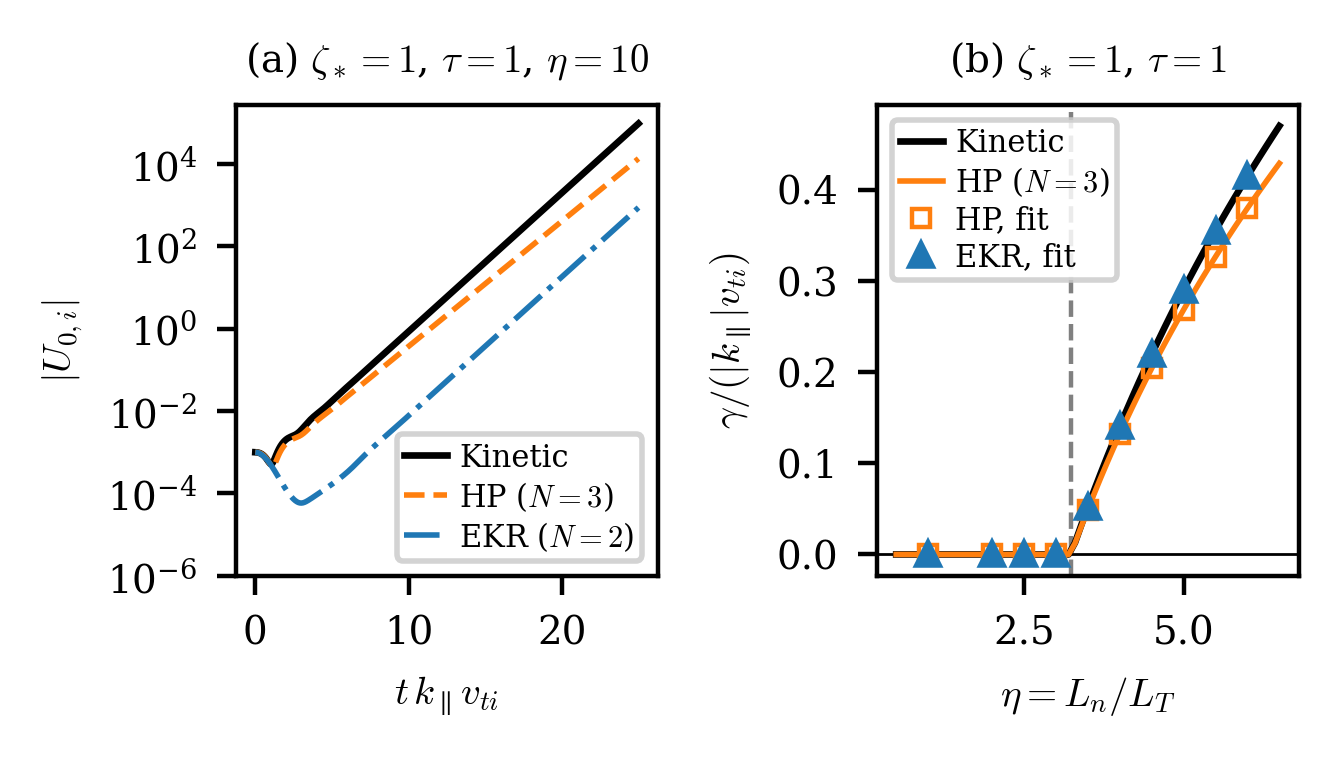
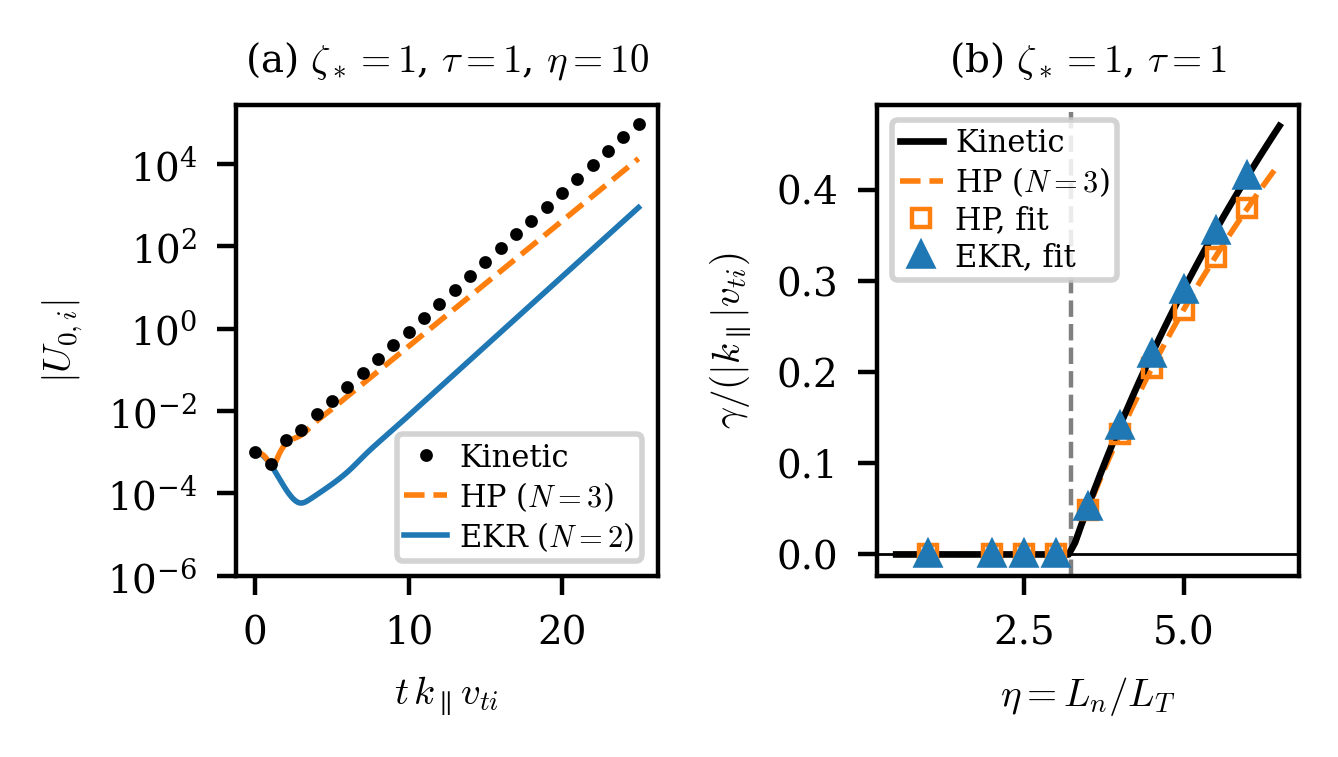
Unify kinetic/HP/EKR styling across the three paper figures.
Kinetic ground truth is now markers-only and drawn above every closure
curve, so an overlaying closure no longer hides it -- previously the EKR
curve covered the kinetic trace in fig_kappa_bot(a) and the NN (N=4)
curve was obscured by a thick kinetic line in the two-mode figure.

Closure styling is now consistent everywhere: HP is orange dashed and
plotted above EKR, EKR is blue solid.  This corrects a color inversion
in the two-mode figure, where HP was blue and EKR orange -- the reverse
of the other two figures.

The same swap is applied to _plot_landau_singlemode_case for consistency
(that figure is currently commented out of the manuscript).

Figures regenerated; growth-rate diagnostics unchanged (kappa-scan EKR
+0.0016%, ITG HP -9.7% / EKR +2.7e-5).

diff --git a/bot/figures_u2.py b/bot/figures_u2.py
@@ -1258,9 +1258,10 @@ def _plot_landau_twomode_case(ax, u_b, k, eps, title, model_n4_super, a_hp,
           f"omega1={omega1:.3f} (xi_b1={xi_b1:.3f}), "
           f"omega2={omega2:.3f} (xi_b2={xi_b2:.3f})")
 
-    ax.semilogy(t_grid, np.abs(E_ref), "k-", lw=2.5, zorder=8,
+    ax.semilogy(t_grid, np.abs(E_ref), "ko", ms=3.0,
+                markevery=20, zorder=8,
                 label="Kinetic ground truth")
-    ax.semilogy(t_grid, np.abs(E_pade), color="C0", lw=1.2, ls=":", zorder=2,
+    ax.semilogy(t_grid, np.abs(E_pade), color="C1", lw=1.2, ls="--", zorder=4.5,
                 alpha=0.9, label=r"Hammett-Perkins ($N=3$)")
     ax.semilogy(t_grid, np.abs(E_hun4), color="C4", lw=1.2, ls=":", zorder=3,
                 alpha=0.9, label=r"Hunana ($N=4$)")
@@ -1268,7 +1269,7 @@ def _plot_landau_twomode_case(ax, u_b, k, eps, title, model_n4_super, a_hp,
                 alpha=0.9, label=r"Padé opt ($N=3$)")
     ax.semilogy(t_grid, np.abs(E_opt4), color="C5", lw=1.2, ls="-.", zorder=3,
                 alpha=0.9, label=r"Padé opt ($N=4$)")
-    ax.semilogy(t_grid, np.abs(E_dir2), color="C1", lw=1.5, ls="--", zorder=4,
+    ax.semilogy(t_grid, np.abs(E_dir2), color="C0", lw=1.5, ls="-", zorder=4,
                 label=r"EKR ($N=2$)")
     ax.semilogy(t_grid, np.abs(E_nn3), color="C3", lw=1.2, ls="-", zorder=4,
                 alpha=0.9, label=r"NN ($N=3$)")
@@ -1383,11 +1384,11 @@ def _plot_landau_singlemode_case(ax, u_b, k, eps, title, model_n4_super, a_hp,
 
     ax.semilogy(t_grid, np.abs(E_ref), "k-", lw=2.5, zorder=6,
                 label="Kinetic ground truth")
-    ax.semilogy(t_grid, np.abs(E_dir2), color="C1", lw=1.5, ls="--", zorder=4,
+    ax.semilogy(t_grid, np.abs(E_dir2), color="C0", lw=1.5, ls="-", zorder=4,
                 label=r"EKR ($N=2$)")
     ax.semilogy(t_grid, np.abs(E_nn4s), color="C6", lw=2.0, ls="-", zorder=5,
                 label=r"NN ($N=4$)")
-    ax.semilogy(t_grid, np.abs(E_pade), color="C0", lw=1.0, ls=":", zorder=2,
+    ax.semilogy(t_grid, np.abs(E_pade), color="C1", lw=1.0, ls="--", zorder=4.5,
                 alpha=0.8, label=r"Hammett-Perkins ($N=3$)")
 
     finite_traces = [np.abs(E_ref), np.abs(E_dir2), np.abs(E_nn4s), np.abs(E_pade)]

diff --git a/bot/figs/fig_slab_itg_combined.py b/bot/figs/fig_slab_itg_combined.py
@@ -31,10 +31,12 @@ ZETA_STAR, TAU = 1.0, 1.0
 RC = {"font.family": "serif", "mathtext.fontset": "cm",
       "font.size": 7, "axes.titlesize": 7}
 
-STYLES = [("kin", dict(color="k", ls="-", lw=1.2), "Kinetic"),
-          ("hp", dict(color="C1", ls="--", lw=1.0),
+STYLES = [("kin", dict(color="k", ls="none", marker="o", ms=1.3,
+                       markevery=20, zorder=10), "Kinetic"),
+          ("hp", dict(color="C1", ls="--", lw=1.0, zorder=5),
            r"HP ($N{=}3$)"),
-          ("beta", dict(color="C0", ls="-.", lw=1.0), r"EKR ($N{=}2$)")]
+          ("beta", dict(color="C0", ls="-", lw=1.0, zorder=4),
+           r"EKR ($N{=}2$)")]
 
 
 def main() -> None:
@@ -74,14 +76,14 @@ def main() -> None:
 
         ax.axhline(0, color="k", lw=0.5)
         ax.axvline(eta_th, color="gray", lw=0.8, ls="--")
-        ax.plot(eta_c, gr(s["z_kin"]), "k-", lw=1.2,
+        ax.plot(eta_c, gr(s["z_kin"]), "k-", lw=1.2, zorder=4,
                 label="Kinetic")
-        ax.plot(eta_c, gr(s["z_hp"]), "C1-", lw=1.0,
+        ax.plot(eta_c, gr(s["z_hp"]), "C1--", lw=1.0, zorder=3,
                 label=r"HP ($N{=}3$)")
         ax.plot(eta_f, np.maximum(s["fit_hp"].imag, 0), "C1s", ms=3.2, mew=0.8,
-                mfc="none", label=r"HP, fit")
+                mfc="none", zorder=5, label=r"HP, fit")
         ax.plot(eta_f, np.maximum(s["fit_beta"].imag, 0), "C0^", ms=4,
-                label=r"EKR, fit")
+                zorder=5, label=r"EKR, fit")
         ax.set_title(rf"(b) $\zeta_* = {ZETA_STAR:g}$, $\tau = {TAU:g}$")
         ax.set_xlabel(r"$\eta = L_n/L_T$")
         ax.set_ylabel(r"$\gamma / (|k_\parallel| v_{ti})$")

diff --git a/bot/figs/fig_kappa_bot.py b/bot/figs/fig_kappa_bot.py
@@ -81,11 +81,12 @@ def main() -> None:
         y0_ekr = np.array([0.0, AMP, 0.0, 0.0], dtype=complex)
         E_ekr2 = ekr_evolve_kappa(K, U_B, EPS, KAPPA_TRACE, t, y0_ekr)
 
-        ax.semilogy(t, np.abs(E_kin), "k-", lw=1.2,
-                    label="Kinetic")
-        ax.semilogy(t, np.abs(E_hp), "C1--", lw=1.0,
+        ax.semilogy(t, np.abs(E_kin), "ko", ms=1.3, markevery=44,
+                    zorder=10, label="Kinetic")
+        ax.semilogy(t, np.abs(E_hp), "C1--", lw=1.0, zorder=5,
                     label=r"HP ($N{=}3$)")
-        ax.semilogy(t, np.abs(E_ekr2), "C0-.", lw=1.0, label=r"EKR ($N{=}2$)")
+        ax.semilogy(t, np.abs(E_ekr2), "C0-", lw=1.0, zorder=4,
+                    label=r"EKR ($N{=}2$)")
         ax.set_title(rf"(a) $\kappa = {KAPPA_TRACE}$")
         ax.set_xlabel(r"$t\,\omega_{pe}$")
         ax.set_ylabel(r"$|E|$")
